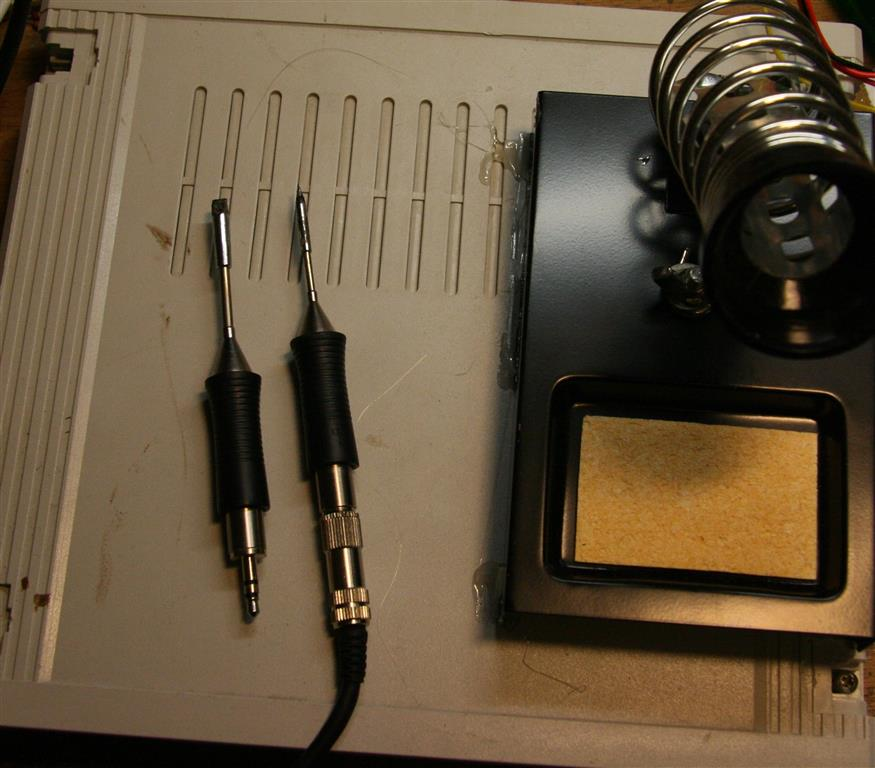
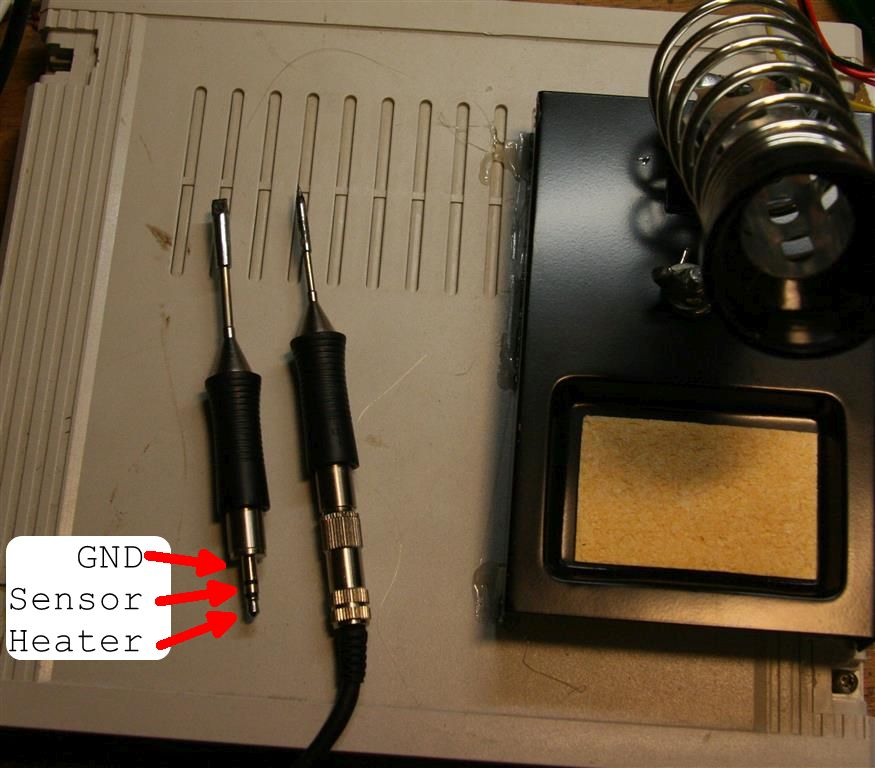
README.md and added solder tip pinout

Changed region(s): [[0.0, 0.6875, 0.2777, 0.875]]

diff --git a/README.md b/README.md
@@ -4,6 +4,8 @@
 
 https://www.weller-tools.com/eu/de/industrielles-loeten/produkte/loetspitzen/rtm-013-s
 
+Power or Battery supply 10-14V DC up to 3A or so needed.
+
 This project is based on the work of Martin Kumm.
 
 http://www.martin-kumm.de/wiki/doku.php?id=Projects:SMD_Solderstation
@@ -46,8 +48,11 @@ http://fpv-community.de/showthread.php?41335-DIY-SMD-L%F6tstation-Ersatz-f%FCr-%
 | 1   | 470R         | R-EU_0207/10    | 0207/10      | R2                   | RESISTOR,                   |                               |      |
 | 1   | 68k          | R-EU_0207/10    | 0207/10      | R5                   | RESISTOR,                   |                               |      |
 | 2   | 5k6          | R-EU_0207/10    | 0207/10      | R4, R7               | RESISTOR,                   |                               |      |
-| 1   | 47k          | R-EU_0207/10    | 0207/10      | bodge                | RESISTOR,                   | to fix tmperature mesaurement |      |
 | 4   | 1k           | R-EU_0207/10    | 0207/10      | R3, R8, R11, R12     | RESISTOR,                   |                               |      |
+| 1   | 47k          | R-EU_0207/10    | 0207/10      | bodge                | RESISTOR,                   | to fix tmperature measurement |      |
+| 1   | 10M          | R-EU_0207/10    | 0207/10      | bodge                | RESISTOR,                   | to fix tmperature measurement |      |
+| 1   | 10k          | R-EU_0207/10    | 0207/10      | bodge                | RESISTOR,                   | to add voltage measurement |      |
+| 1   | 100          | R-EU_0207/10    | 0207/10      | bodge                | RESISTOR,                   | to add voltage measurement |      |
 | 1   | 78L05        | 78XXS           | 78XXS        | IC2                  | VOLTAGE REGULATOR           |                               |      |
 | 1   | POWER        | W237-02P        | W237-132     | X1                   | WAGO SREW CLAMP             | optional                      |      |
 | 1   | Solder       | W237-3E         | W237-3E      | X2                   | WAGO SREW CLAMP             | optional                      |      |
